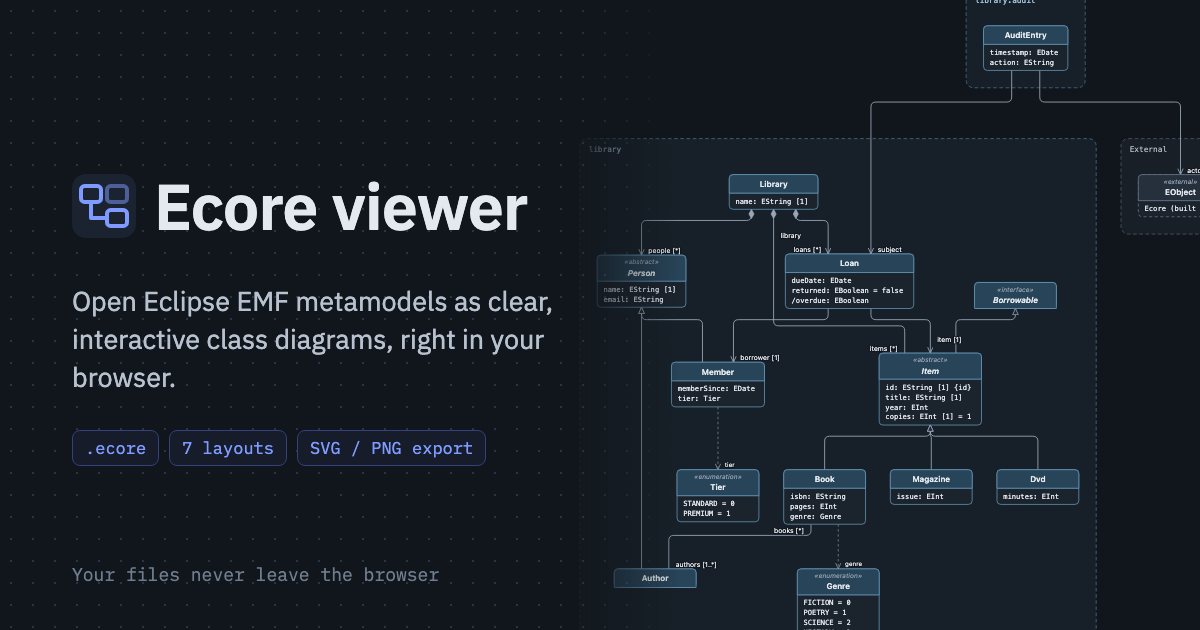
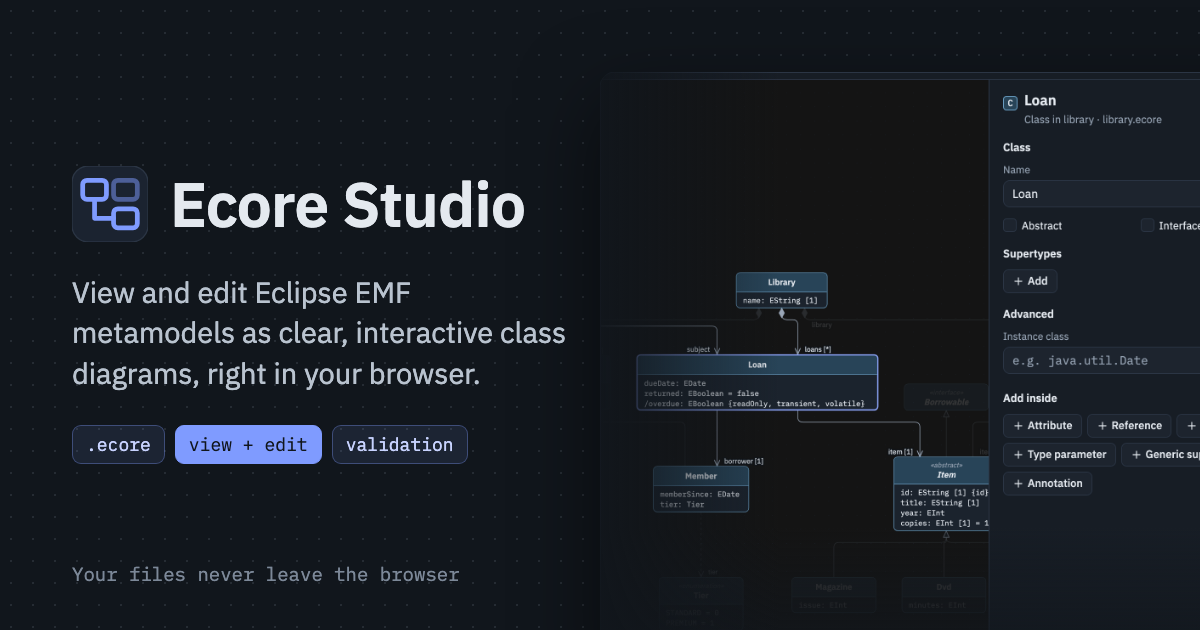
update OGs

diff --git a/index.html b/index.html
@@ -6,7 +6,7 @@
     <title>Ecore Studio</title>
     <meta
       name="description"
-      content="View and edit Eclipse EMF Ecore metamodels as interactive class diagrams in your browser. Seven layouts, routed links, undo and redo, SVG and PNG export. Your files never leave the browser."
+      content="View and edit Eclipse EMF Ecore metamodels as interactive class diagrams in your browser. An Eclipse-style tree and properties editor, live validation, undo and redo, seven layouts, SVG and PNG export. Your files never leave the browser."
     />
     <meta name="theme-color" content="#11161c" />
     <link rel="icon" type="image/svg+xml" href="%BASE_URL%favicon.svg" />
@@ -26,7 +26,7 @@
     <meta property="og:image:height" content="630" />
     <meta
       property="og:image:alt"
-      content="Ecore Studio: a class diagram of a small library metamodel beside the app name"
+      content="Ecore Studio editing a library metamodel: a class diagram with the Loan class selected and its properties open for editing"
     />
 
     <meta name="twitter:card" content="summary_large_image" />
@@ -36,6 +36,10 @@
       content="View and edit Eclipse EMF metamodels as clear, interactive class diagrams, right in your browser."
     />
     <meta name="twitter:image" content="%SITE_URL%og-image.png" />
+    <meta
+      name="twitter:image:alt"
+      content="Ecore Studio editing a library metamodel: a class diagram with the Loan class selected and its properties open for editing"
+    />
   </head>
   <body>
     <div id="root"></div>

diff --git a/README.md b/README.md
@@ -4,7 +4,7 @@ View and edit Eclipse EMF metamodels as clear, interactive class diagrams, right
 
 **[Open Ecore Studio →](https://gcoulby.github.io/model-viewer/)**
 
-![Ecore Studio showing a class diagram of a small library metamodel](public/og-image.png)
+![Ecore Studio editing a library metamodel, with the Loan class selected and its properties open](public/og-image.png)
 
 Drop in one or more `.ecore` files and you get a UML-style class diagram: classes, interfaces, enums, data types, references and inheritance. References between files are joined up. There's nothing to install and no Eclipse needed. Files are read in the browser and never uploaded anywhere. Your open files are kept in the browser's own storage, so they're still there when you come back. Close a file to remove it.
 
